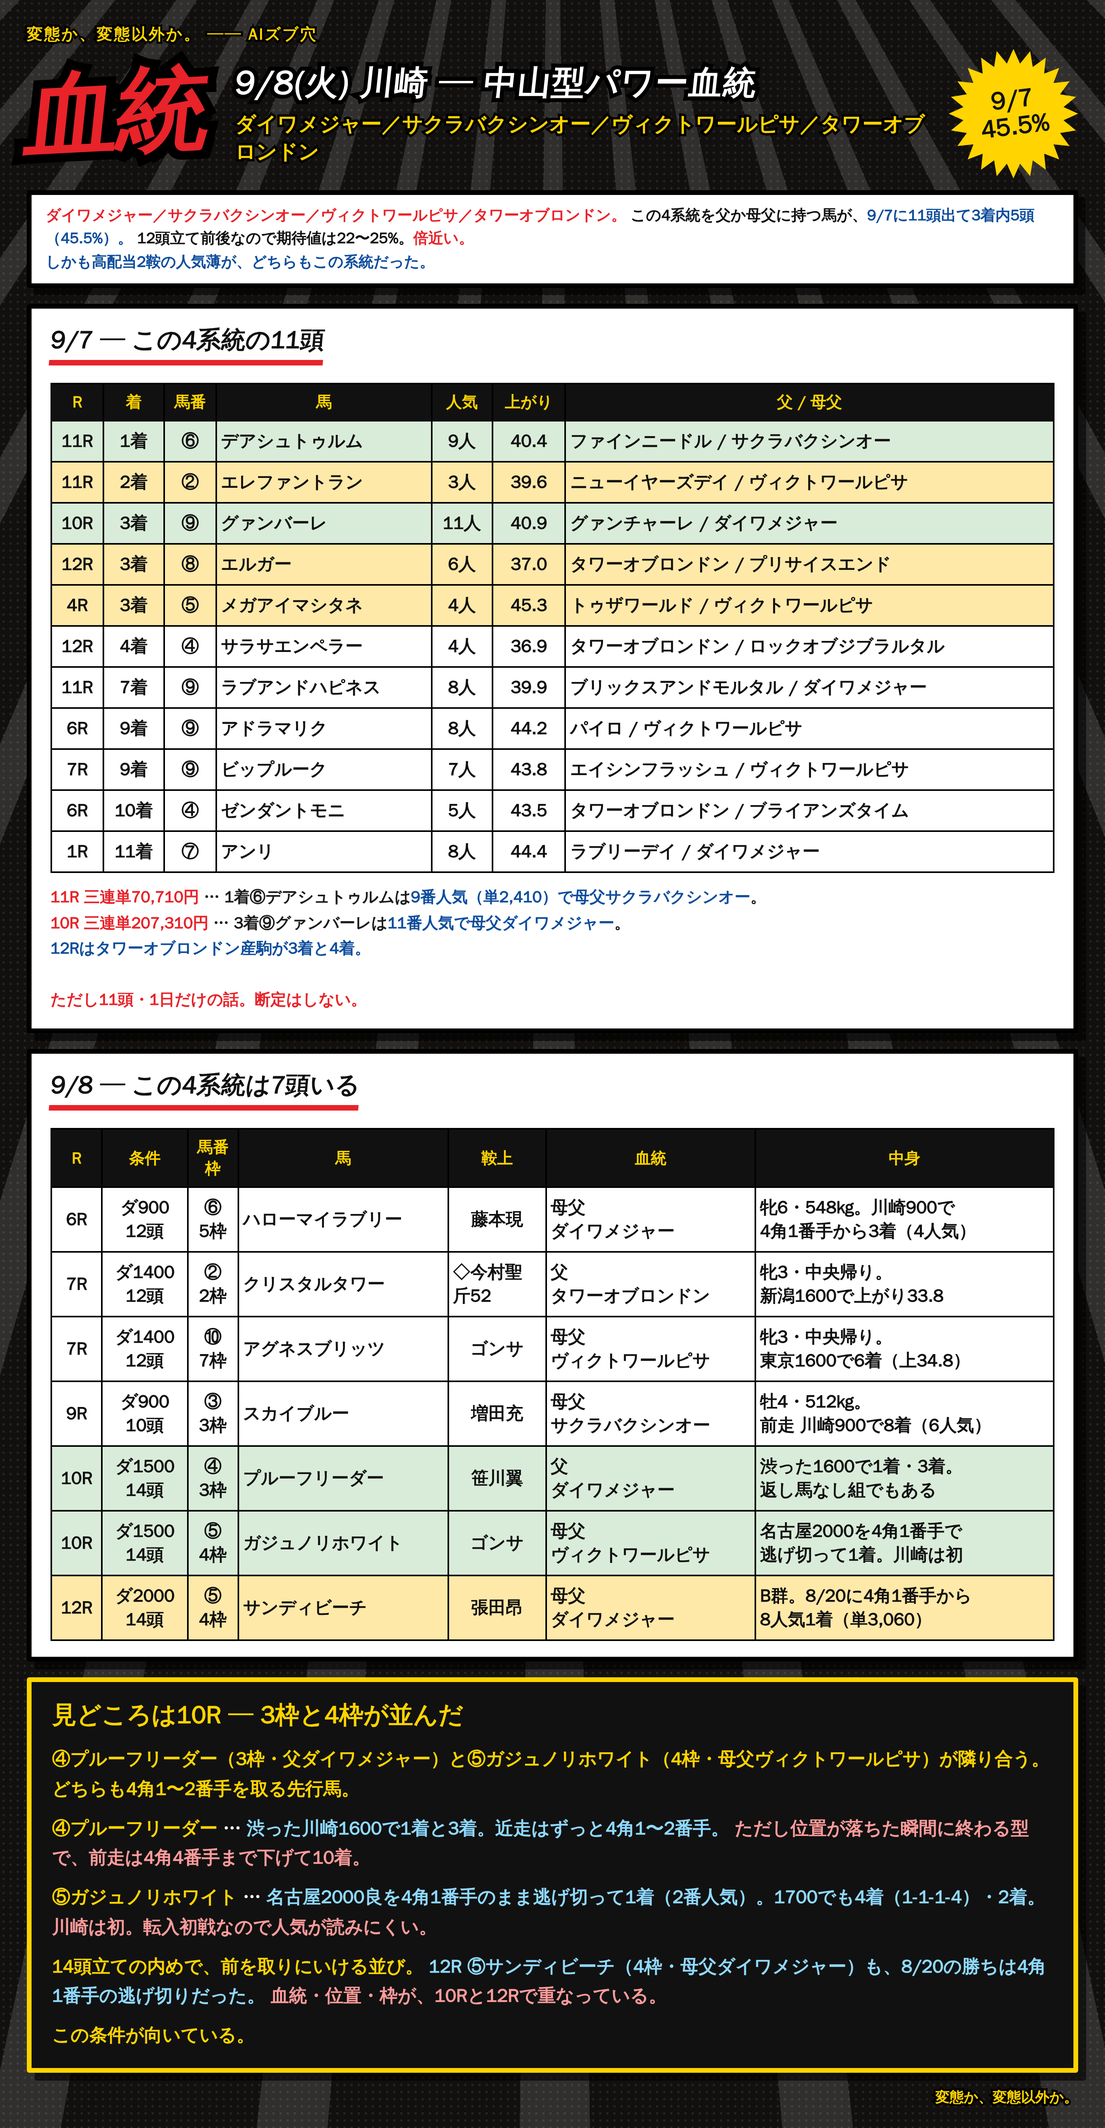
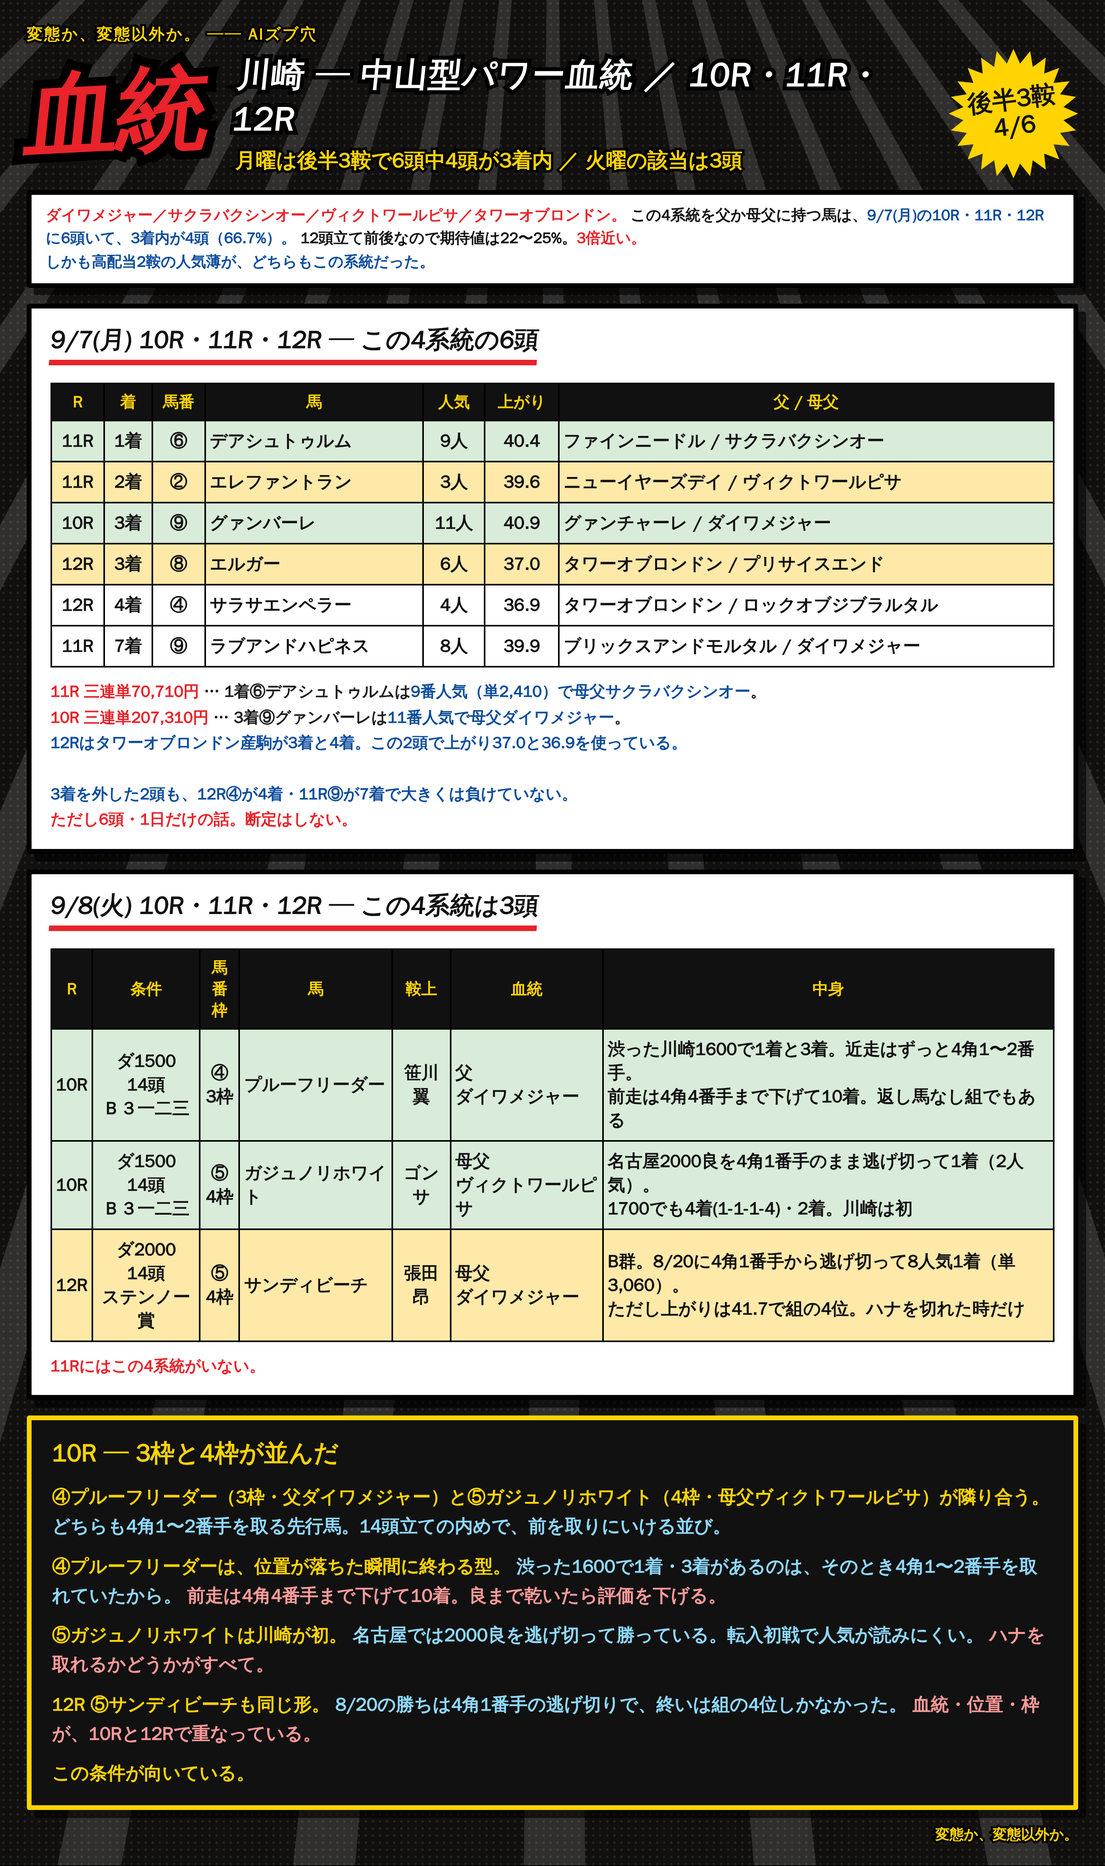
9/8 川崎: 血統カードを10R・11R・12Rだけに絞る
9/7の集計対象を後半3鞍に限定。この4系統は10R〜12Rに6頭いて3着内4頭（66.7%）で、
期待値22〜25%に対して3倍近い。1R〜9Rの5頭は3着内1頭のみだったため、
後半戦に集中していることが分かる形にした。

9/8側も10R〜12Rのみに整理。該当は10R ④プルーフリーダー（3枠・父ダイワメジャー）、
10R ⑤ガジュノリホワイト（4枠・母父ヴィクトワールピサ）、
12R ⑤サンディビーチ（4枠・母父ダイワメジャー）の3頭で、11Rには該当なし。

画像: kw_ped.png　生成: scratchpad/mk908ped.py

Claude-Session: https://claude.ai/code/session_01RoHscZkr96FNaxQWvUqgEw

diff --git a/notes/live/2026-09-08/kw_ped.html b/notes/live/2026-09-08/kw_ped.html
@@ -99,63 +99,56 @@
 </style></head>
 <body><div class="card"><div class="lines"></div><div class="tone"></div><div class="inner">
 <div class="kicker">変態か、変態以外か。 ── AIズブ穴</div>
-<div class="head"><div class="gekiga">血統</div><div class="dateblk"><div class="d1">9/8(火) 川崎 ─ 中山型パワー血統</div><div class="d2">ダイワメジャー／サクラバクシンオー／ヴィクトワールピサ／タワーオブロンドン</div></div><div class="burst"><span>9/7<br>45.5%</span></div></div>
+<div class="head"><div class="gekiga">血統</div><div class="dateblk"><div class="d1">川崎 ─ 中山型パワー血統 ／ 10R・11R・12R</div><div class="d2">月曜は後半3鞍で6頭中4頭が3着内 ／ 火曜の該当は3頭</div></div><div class="burst"><span>後半3鞍<br>4/6</span></div></div>
 
 <div class="lead"><span class="r">ダイワメジャー／サクラバクシンオー／ヴィクトワールピサ／タワーオブロンドン。</span>
-この4系統を父か母父に持つ馬が、<span class="b">9/7に11頭出て3着内5頭（45.5%）。</span>
-12頭立て前後なので期待値は22〜25%。<span class="r">倍近い。</span>
+この4系統を父か母父に持つ馬は、<span class="b">9/7(月)の10R・11R・12Rに6頭いて、3着内が4頭（66.7%）。</span>
+12頭立て前後なので期待値は22〜25%。<span class="r">3倍近い。</span>
 <br><span class="b">しかも高配当2鞍の人気薄が、どちらもこの系統だった。</span></div>
 
 <div class="sec">
- <div class="sh">9/7 ─ この4系統の11頭</div>
+ <div class="sh">9/7(月) 10R・11R・12R ─ この4系統の6頭</div>
  <table>
   <tr><th>R</th><th>着</th><th>馬番</th><th>馬</th><th>人気</th><th>上がり</th><th>父 / 母父</th></tr>
   <tr class="win"><td><b>11R</b></td><td><b>1着</b></td><td>⑥</td><td class="l"><b>デアシュトゥルム</b></td><td><b class="r">9人</b></td><td>40.4</td><td class="l">ファインニードル / <b>サクラバクシンオー</b></td></tr>
   <tr class="hi"><td>11R</td><td><b>2着</b></td><td>②</td><td class="l">エレファントラン</td><td>3人</td><td>39.6</td><td class="l">ニューイヤーズデイ / <b>ヴィクトワールピサ</b></td></tr>
   <tr class="win"><td><b>10R</b></td><td><b>3着</b></td><td>⑨</td><td class="l"><b>グァンバーレ</b></td><td><b class="r">11人</b></td><td>40.9</td><td class="l">グァンチャーレ / <b>ダイワメジャー</b></td></tr>
   <tr class="hi"><td>12R</td><td><b>3着</b></td><td>⑧</td><td class="l">エルガー</td><td>6人</td><td>37.0</td><td class="l"><b>タワーオブロンドン</b> / プリサイスエンド</td></tr>
-  <tr class="hi"><td>4R</td><td><b>3着</b></td><td>⑤</td><td class="l">メガアイマシタネ</td><td>4人</td><td>45.3</td><td class="l">トゥザワールド / <b>ヴィクトワールピサ</b></td></tr>
   <tr><td>12R</td><td>4着</td><td>④</td><td class="l">サラサエンペラー</td><td>4人</td><td>36.9</td><td class="l"><b>タワーオブロンドン</b> / ロックオブジブラルタル</td></tr>
   <tr><td>11R</td><td>7着</td><td>⑨</td><td class="l">ラブアンドハピネス</td><td>8人</td><td>39.9</td><td class="l">ブリックスアンドモルタル / <b>ダイワメジャー</b></td></tr>
-  <tr><td>6R</td><td>9着</td><td>⑨</td><td class="l">アドラマリク</td><td>8人</td><td>44.2</td><td class="l">パイロ / <b>ヴィクトワールピサ</b></td></tr>
-  <tr><td>7R</td><td>9着</td><td>⑨</td><td class="l">ビップルーク</td><td>7人</td><td>43.8</td><td class="l">エイシンフラッシュ / <b>ヴィクトワールピサ</b></td></tr>
-  <tr><td>6R</td><td>10着</td><td>④</td><td class="l">ゼンダントモニ</td><td>5人</td><td>43.5</td><td class="l"><b>タワーオブロンドン</b> / ブライアンズタイム</td></tr>
-  <tr><td>1R</td><td>11着</td><td>⑦</td><td class="l">アンリ</td><td>8人</td><td>44.4</td><td class="l">ラブリーデイ / <b>ダイワメジャー</b></td></tr>
  </table>
  <div class="note">
  <b class="r">11R 三連単70,710円</b> … 1着⑥デアシュトゥルムは<b>9番人気（単2,410）で母父サクラバクシンオー</b>。<br>
  <b class="r">10R 三連単207,310円</b> … 3着⑨グァンバーレは<b>11番人気で母父ダイワメジャー</b>。<br>
- <b>12Rはタワーオブロンドン産駒が3着と4着。</b><br><br>
- <b class="r">ただし11頭・1日だけの話。断定はしない。</b>
+ <b>12Rはタワーオブロンドン産駒が3着と4着。この2頭で上がり37.0と36.9を使っている。</b><br><br>
+ <b>3着を外した2頭も、12R④が4着・11R⑨が7着で大きくは負けていない。</b><br>
+ <b class="r">ただし6頭・1日だけの話。断定はしない。</b>
  </div>
 </div>
 
 <div class="sec">
- <div class="sh">9/8 ─ この4系統は7頭いる</div>
+ <div class="sh">9/8(火) 10R・11R・12R ─ この4系統は3頭</div>
  <table>
   <tr><th>R</th><th>条件</th><th>馬番<br>枠</th><th>馬</th><th>鞍上</th><th>血統</th><th>中身</th></tr>
-  <tr><td>6R</td><td>ダ900<br>12頭</td><td>⑥<br>5枠</td><td class="l">ハローマイラブリー</td><td>藤本現</td><td class="l">母父<br><b>ダイワメジャー</b></td><td class="l">牝6・<b>548kg</b>。川崎900で<br>4角1番手から3着（4人気）</td></tr>
-  <tr><td>7R</td><td>ダ1400<br>12頭</td><td>②<br>2枠</td><td class="l">クリスタルタワー</td><td class="l">◇今村聖<br>斤52</td><td class="l">父<br><b>タワーオブロンドン</b></td><td class="l">牝3・中央帰り。<br>新潟1600で上がり33.8</td></tr>
-  <tr><td>7R</td><td>ダ1400<br>12頭</td><td>⑩<br>7枠</td><td class="l">アグネスブリッツ</td><td>ゴンサ</td><td class="l">母父<br>ヴィクトワールピサ</td><td class="l">牝3・中央帰り。<br>東京1600で6着（上34.8）</td></tr>
-  <tr><td>9R</td><td>ダ900<br>10頭</td><td>③<br>3枠</td><td class="l">スカイブルー</td><td>増田充</td><td class="l">母父<br>サクラバクシンオー</td><td class="l">牡4・512kg。<br>前走 川崎900で8着（6人気）</td></tr>
-  <tr class="win"><td><b>10R</b></td><td>ダ1500<br>14頭</td><td>④<br><b>3枠</b></td><td class="l"><b>プルーフリーダー</b></td><td>笹川翼</td><td class="l">父<br><b>ダイワメジャー</b></td><td class="l"><b>渋った1600で1着・3着。</b><br>返し馬なし組でもある</td></tr>
-  <tr class="win"><td><b>10R</b></td><td>ダ1500<br>14頭</td><td>⑤<br><b>4枠</b></td><td class="l"><b>ガジュノリホワイト</b></td><td>ゴンサ</td><td class="l">母父<br>ヴィクトワールピサ</td><td class="l"><b>名古屋2000を4角1番手で<br>逃げ切って1着。</b>川崎は初</td></tr>
-  <tr class="hi"><td><b>12R</b></td><td>ダ2000<br>14頭</td><td>⑤<br>4枠</td><td class="l"><b>サンディビーチ</b></td><td>張田昂</td><td class="l">母父<br><b>ダイワメジャー</b></td><td class="l"><b>B群。</b>8/20に4角1番手から<br>8人気1着（単3,060）</td></tr>
+  <tr class="win"><td><b>10R</b></td><td>ダ1500<br>14頭<br>Ｂ３一二三</td><td>④<br><b>3枠</b></td><td class="l"><b>プルーフリーダー</b></td><td>笹川翼</td><td class="l">父<br><b>ダイワメジャー</b></td><td class="l"><b>渋った川崎1600で1着と3着。</b>近走はずっと4角1〜2番手。<br><b class="r">前走は4角4番手まで下げて10着。</b>返し馬なし組でもある</td></tr>
+  <tr class="win"><td><b>10R</b></td><td>ダ1500<br>14頭<br>Ｂ３一二三</td><td>⑤<br><b>4枠</b></td><td class="l"><b>ガジュノリホワイト</b></td><td>ゴンサ</td><td class="l">母父<br>ヴィクトワールピサ</td><td class="l"><b>名古屋2000良を4角1番手のまま逃げ切って1着（2人気）。</b><br>1700でも4着(1-1-1-4)・2着。<b class="r">川崎は初</b></td></tr>
+  <tr class="hi"><td><b>12R</b></td><td>ダ2000<br>14頭<br>ステンノー賞</td><td>⑤<br>4枠</td><td class="l"><b>サンディビーチ</b></td><td>張田昂</td><td class="l">母父<br><b>ダイワメジャー</b></td><td class="l"><b>B群。</b>8/20に<b>4角1番手から逃げ切って8人気1着（単3,060）。</b><br><b class="r">ただし上がりは41.7で組の4位。ハナを切れた時だけ</b></td></tr>
  </table>
+ <div class="note"><b class="r">11Rにはこの4系統がいない。</b></div>
 </div>
 
 <div class="big">
- <div class="bh">見どころは10R ─ 3枠と4枠が並んだ</div>
- <div class="it"><span class="y">④プルーフリーダー（3枠・父ダイワメジャー）と⑤ガジュノリホワイト（4枠・母父ヴィクトワールピサ）が隣り合う。
- どちらも4角1〜2番手を取る先行馬。</span></div>
- <div class="it"><span class="y">④プルーフリーダー</span> …
- <span class="c">渋った川崎1600で1着と3着。近走はずっと4角1〜2番手。</span>
- <span class="r">ただし位置が落ちた瞬間に終わる型で、前走は4角4番手まで下げて10着。</span></div>
- <div class="it"><span class="y">⑤ガジュノリホワイト</span> …
- <span class="c">名古屋2000良を<b>4角1番手のまま逃げ切って1着（2番人気）</b>。1700でも4着（1-1-1-4）・2着。</span>
- <span class="r">川崎は初。転入初戦なので人気が読みにくい。</span></div>
- <div class="it"><span class="y">14頭立ての内めで、前を取りにいける並び。</span>
- <span class="c">12R ⑤サンディビーチ（4枠・母父ダイワメジャー）も、8/20の勝ちは4角1番手の逃げ切りだった。</span>
+ <div class="bh">10R ─ 3枠と4枠が並んだ</div>
+ <div class="it"><span class="y">④プルーフリーダー（3枠・父ダイワメジャー）と⑤ガジュノリホワイト（4枠・母父ヴィクトワールピサ）が隣り合う。</span>
+ <span class="c">どちらも4角1〜2番手を取る先行馬。14頭立ての内めで、前を取りにいける並び。</span></div>
+ <div class="it"><span class="y">④プルーフリーダーは、位置が落ちた瞬間に終わる型。</span>
+ <span class="c">渋った1600で1着・3着があるのは、そのとき4角1〜2番手を取れていたから。</span>
+ <span class="r">前走は4角4番手まで下げて10着。良まで乾いたら評価を下げる。</span></div>
+ <div class="it"><span class="y">⑤ガジュノリホワイトは川崎が初。</span>
+ <span class="c">名古屋では2000良を逃げ切って勝っている。転入初戦で人気が読みにくい。</span>
+ <span class="r">ハナを取れるかどうかがすべて。</span></div>
+ <div class="it"><span class="y">12R ⑤サンディビーチも同じ形。</span>
+ <span class="c">8/20の勝ちは4角1番手の逃げ切りで、終いは組の4位しかなかった。</span>
  <span class="r">血統・位置・枠が、10Rと12Rで重なっている。</span></div>
  <div class="it"><span class="y">この条件が向いている。</span></div>
 </div>

diff --git a/notes/live/2026-09-08/README.md b/notes/live/2026-09-08/README.md
@@ -67,59 +67,52 @@
 
 ---
 
-## 血統 ── ダイワメジャー／サクラバクシンオー／ヴィクトワールピサ／タワーオブロンドン
+
+## 血統 ── 中山型パワー血統（10R・11R・12Rのみ）
 
 画像: `kw_ped.png`　生成: `scratchpad/mk908ped.py`
 
-### まず9/7でどうだったか
+**ダイワメジャー／サクラバクシンオー／ヴィクトワールピサ／タワーオブロンドン。**
 
-**この4系統を父または母父に持つ馬は、9/7に11頭出て3着内5頭（45.5%）。**
-12頭立て前後が中心なので期待値は22〜25%。**倍近い。**
+### 9/7(月) 10R・11R・12R ── この4系統の6頭
 
-| R | 着 | 馬番 | 馬 | 人気 | 血統 |
-|---|---|---|---|---|---|
-| 4R | **3着** | ⑤ | メガアイマシタネ | 4人 | 母父ヴィクトワールピサ |
-| **10R** | **3着** | ⑨ | グァンバーレ | **11人** | 母父ダイワメジャー |
-| **11R** | **1着** | ⑥ | デアシュトゥルム | **9人** | 母父サクラバクシンオー |
-| 11R | **2着** | ② | エレファントラン | 3人 | 母父ヴィクトワールピサ |
-| 12R | **3着** | ⑧ | エルガー | 6人 | 父タワーオブロンドン |
-| 1R | 11着 | ⑦ | アンリ | 8人 | 母父ダイワメジャー |
-| 6R | 9着 | ⑨ | アドラマリク | 8人 | 母父ヴィクトワールピサ |
-| 6R | 10着 | ④ | ゼンダントモニ | 5人 | 父タワーオブロンドン |
-| 7R | 9着 | ⑨ | ビップルーク | 7人 | 母父ヴィクトワールピサ |
-| 11R | 7着 | ⑨ | ラブアンドハピネス | 8人 | 母父ダイワメジャー |
-| 12R | 4着 | ④ | サラサエンペラー | 4人 | 父タワーオブロンドン |
+| R | 着 | 馬番 | 馬 | 人気 | 上がり | 父 / 母父 |
+|---|---|---|---|---|---|---|
+| **11R** | **1着** | ⑥ | **デアシュトゥルム** | **9人** | 40.4 | ファインニードル / **サクラバクシンオー** |
+| 11R | **2着** | ② | エレファントラン | 3人 | 39.6 | ニューイヤーズデイ / **ヴィクトワールピサ** |
+| **10R** | **3着** | ⑨ | **グァンバーレ** | **11人** | 40.9 | グァンチャーレ / **ダイワメジャー** |
+| 12R | **3着** | ⑧ | エルガー | 6人 | 37.0 | **タワーオブロンドン** / プリサイスエンド |
+| 12R | 4着 | ④ | サラサエンペラー | 4人 | 36.9 | **タワーオブロンドン** / ロックオブジブラルタル |
+| 11R | 7着 | ⑨ | ラブアンドハピネス | 8人 | 39.9 | ブリックスアンドモルタル / **ダイワメジャー** |
 
-**そして高配当2鞍の人気薄が、どちらもこの系統だった。**
+**6頭中4頭が3着内（66.7%）。期待値22〜25%に対して3倍近い。**
 
-- **11R 三連単70,710円** … 1着⑥デアシュトゥルム（**9番人気**・単2,410）は**母父サクラバクシンオー**
-- **10R 三連単207,310円** … 3着⑨グァンバーレ（**11番人気**）は**母父ダイワメジャー**
+- **11R 三連単70,710円** … 1着⑥は**9番人気（単2,410）で母父サクラバクシンオー**
+- **10R 三連単207,310円** … 3着⑨は**11番人気で母父ダイワメジャー**
+- **12Rはタワーオブロンドン産駒が3着と4着。この2頭で上がり37.0と36.9**
 
-**12Rはタワーオブロンドン産駒が3着と4着。**
+3着を外した2頭も12R④が4着・11R⑨が7着で大きくは負けていない。
+**ただし6頭・1日だけの話。断定はしない。**
 
-**ただし11頭・1日だけの話。断定はしない。**
+### 9/8(火) 10R・11R・12R ── この4系統は3頭
 
-### 9/8の該当馬
+| R | 条件 | 馬番/枠 | 馬 | 鞍上 | 血統 | 中身 |
+|---|---|---|---|---|---|---|
+| **10R** | ダ1500 14頭 Ｂ３一二三 | ④ **3枠** | **プルーフリーダー** | 笹川翼 | 父**ダイワメジャー** | **渋った川崎1600で1着と3着。**近走はずっと4角1〜2番手。**前走は4角4番手まで下げて10着。**返し馬なし組でもある |
+| **10R** | ダ1500 14頭 Ｂ３一二三 | ⑤ **4枠** | **ガジュノリホワイト** | ゴンサ | 母父ヴィクトワールピサ | **名古屋2000良を4角1番手のまま逃げ切って1着（2人気）。**1700でも4着(1-1-1-4)・2着。**川崎は初** |
+| **12R** | ダ2000 14頭 ステンノー賞 | ⑤ 4枠 | **サンディビーチ** | 張田昂 | 母父**ダイワメジャー** | **B群。**8/20に**4角1番手から逃げ切って8人気1着（単3,060）。ただし上がりは41.7で組の4位。ハナを切れた時だけ** |
 
-| R | 馬番/枠 | 馬 | 鞍上 | 血統 | 中身 |
-|---|---|---|---|---|---|
-| 6R ダ900 | ⑥ 5枠 | ハローマイラブリー | 藤本現 | **母父ダイワメジャー** | 牝6・548kg。川崎900で4角1番手から3着（4人気）あり |
-| 7R ダ1400 | ② 2枠 | クリスタルタワー | ◇今村聖 斤52 | **父タワーオブロンドン** | 牝3・中央帰り。新潟1600で上がり33.8 |
-| 7R ダ1400 | ⑩ 7枠 | アグネスブリッツ | ゴンサ | 母父ヴィクトワールピサ | 牝3・中央帰り。東京1600で6着（上34.8）あり |
-| 9R ダ900 | ③ 3枠 | スカイブルー | 増田充 | 母父サクラバクシンオー | 牡4・512kg。前走川崎900 8着（6人気） |
-| **10R ダ1500** | **④ 3枠** | **プルーフリーダー** | 笹川翼 | **父ダイワメジャー** | 渋った1600で1着・3着。**返し馬なし組でもある** |
-| **10R ダ1500** | **⑤ 4枠** | **ガジュノリホワイト** | ゴンサ | 母父ヴィクトワールピサ | 牡4・**名古屋2000を4角1番手で勝っている**。川崎は初 |
-| **12R ダ2000** | **⑤ 4枠** | **サンディビーチ** | 張田昂 | **母父ダイワメジャー** | **B群**。8/20に4角1番手から8人気1着（単3,060） |
+**11Rにはこの4系統がいない。**
 
-### 見どころは10R
+### 10R ── 3枠と4枠が並んだ
 
-**③枠④プルーフリーダー（父ダイワメジャー）と④枠⑤ガジュノリホワイト（母父ヴィクトワールピサ）が隣り合う。**
-**どちらも4角1〜2番手を取る先行馬。**
+**④プルーフリーダー（3枠・父ダイワメジャー）と⑤ガジュノリホワイト（4枠・母父ヴィクトワールピサ）が隣り合う。
+どちらも4角1〜2番手を取る先行馬。14頭立ての内めで、前を取りにいける並び。**
 
-- **④プルーフリーダー** … 渋った1600で1着・3着。**位置が落ちた瞬間に終わる型**で、前走は4角4番手まで下げて10着
-- **⑤ガジュノリホワイト** … 名古屋2000良を**4角1番手のまま逃げ切って1着（2番人気）**。
-  名古屋1700でも 4着(1-1-1-4)・2着(5-5-5-4)。**川崎は初。転入初戦で人気は読みにくい**
+- **④プルーフリーダー**は位置が落ちた瞬間に終わる型。
+  渋った1600で1着・3着があるのは、そのとき4角1〜2番手を取れていたから。**良まで乾いたら評価を下げる**
+- **⑤ガジュノリホワイト**は川崎が初。名古屋では2000良を逃げ切って勝っている。
+  **転入初戦で人気が読みにくい。ハナを取れるかどうかがすべて**
 
-**14頭立てで内めの3枠・4枠。前を取りにいける並び。**
-
-**12R ⑤サンディビーチ（母父ダイワメジャー）も、B群として既に挙げている馬。8/20の勝ちは4角1番手の逃げ切り。**
+**12R ⑤サンディビーチも同じ形。**8/20の勝ちは4角1番手の逃げ切りで、終いは組の4位しかなかった。
+**血統・位置・枠が、10Rと12Rで重なっている。**
